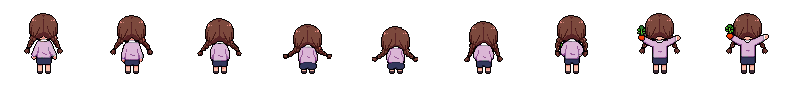
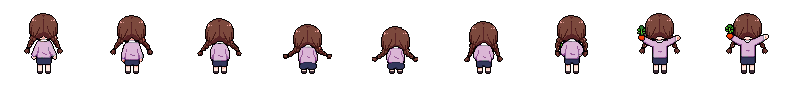
ภาพตัวเอกผิวสว่างไม่ถูกเขียนทับตอนดึงภาพ
- fetch-assets เอาแผ่นท่าเดินและท่ายืนผิวสว่างใน assets-src/skin_fair_1104 ทับหลังสร้าง
  ขนาดต้องตรงกับแผ่นที่สร้าง จุดเท้ายังวัดจากแผ่นที่สร้าง
- ต้นฉบับท่าทำสวนและหน้าในแถบบนเป็นผิวสว่างแล้ว จากฝั่งวางแผน
- ไฟล์ที่พิกเซลเหมือนเดิมไม่เขียนทับ git จึงไม่เห็นการเปลี่ยนหลังดึงภาพ
- validate ล้มถ้าภาพตัวสาวกลับเป็นสีผิวเดิม #f9bfab

diff --git a/tools/fetch-assets.ts b/tools/fetch-assets.ts
@@ -27,8 +27,16 @@ async function downloadPng(url: string): Promise<PNG> {
   return PNG.sync.read(await downloadBytes(url));
 }
 
+/** ไฟล์เดิมที่พิกเซลเหมือนกันทุกจุดไม่เขียนทับ ไฟล์ที่ฝั่งวางแผนบีบอัดมาเล็กกว่าจะได้ไม่เปลี่ยนใน git */
+function samePixels(target: string, png: PNG): boolean {
+  if (!existsSync(target)) return false;
+  const old = PNG.sync.read(readFileSync(target));
+  return old.width === png.width && old.height === png.height && old.data.equals(png.data);
+}
+
 function savePng(file: string, png: PNG): void {
   const target = join(projectRoot, 'public/assets', file);
+  if (samePixels(target, png)) return;
   mkdirSync(dirname(target), { recursive: true });
   writeFileSync(target, PNG.sync.write(png));
 }
@@ -45,6 +53,20 @@ function lowestRow(png: PNG, left: number, top: number, width: number, height: n
 
 function median(values: number[]): number {
   return [...values].sort((a, b) => a - b)[Math.floor(values.length / 2)] ?? 0;
+}
+
+/** ตัวเอกผิวสว่างที่ผู้ใช้อนุมัติ 4 พ.ย. 2026 ฝั่งวางแผนสลับสีบนแผ่นที่สร้างเสร็จแล้ว ภาพใน PixelLab ยังเป็นผิวเดิม */
+const FAIR_SKIN_DIR = 'assets-src/skin_fair_1104';
+
+/** ใช้แผ่นผิวสว่างแทนแผ่นที่เพิ่งสร้าง จุดเท้ายังวัดจากแผ่นที่สร้าง เพราะสลับแค่สี ไม่ได้ย้ายพิกเซล */
+function fairSkinSheet(id: string, processed: PNG): PNG | null {
+  const path = join(projectRoot, FAIR_SKIN_DIR, `${id}.png`);
+  if (!existsSync(path)) return null;
+  const fair = PNG.sync.read(readFileSync(path));
+  if (fair.width !== processed.width || fair.height !== processed.height) {
+    throw new Error(`${FAIR_SKIN_DIR}/${id}.png is ${fair.width}x${fair.height}, expected ${processed.width}x${processed.height}`);
+  }
+  return fair;
 }
 
 async function fetchCharacter(id: string, entry: CharacterEntry, meta: SpriteMeta): Promise<void> {
@@ -85,12 +107,10 @@ async function fetchCharacter(id: string, entry: CharacterEntry, meta: SpriteMet
   for (const [direction, fix] of Object.entries(entry.steady_rows ?? {})) {
     steadyWalkRow(sheet, directions.findIndex(([name]) => name === direction), entry.frameWidth, entry.frameHeight, entry.frameCount, fix);
   }
-  savePng(
-    entry.file,
-    entry.squash_stretch
-      ? buildHopSheet(sheet, entry.frameWidth, entry.frameHeight, directions.length, entry.squash_stretch)
-      : sheet,
-  );
+  const processed = entry.squash_stretch
+    ? buildHopSheet(sheet, entry.frameWidth, entry.frameHeight, directions.length, entry.squash_stretch)
+    : sheet;
+  savePng(entry.file, fairSkinSheet(id, processed) ?? processed);
   meta[id] = { footY };
   console.log(`${id}: saved ${directions.length} directions, ${entry.frameCount} frames each`);
 }

diff --git a/tools/checks.ts b/tools/checks.ts
@@ -1,6 +1,7 @@
 import { existsSync, readdirSync, readFileSync, statSync } from 'node:fs';
 import { dirname, join, relative, resolve } from 'node:path';
 import { fileURLToPath } from 'node:url';
+import { PNG } from 'pngjs';
 import type { z } from 'zod';
 import {
   balanceSchema,
@@ -32,6 +33,24 @@ function readJson(path: string): unknown {
 function checkSchema(path: string, schema: z.ZodType, problems: string[]): void {
   const result = schema.safeParse(readJson(path));
   if (!result.success) problems.push(`${path}: ${result.error.message}`);
+}
+
+/** ภาพตัวเอกสาวทุกชิ้น ท่าเดิน ท่ายืน ท่าทำงาน และหน้าในแถบบน */
+const GIRL_ART = /^(player_girl_(walk|stand)|anim_[a-z]+_(south|east|north)|portrait_girl_[a-z]+)$/;
+const OLD_SKIN = 0xf9bfab;
+/** ภาพผิวเดิมมีสีนี้ราว 5–20% ของพิกเซลทึบ ภาพผิวสว่างไม่มีเลย */
+const OLD_SKIN_MAX_SHARE = 0.01;
+
+function oldSkinShare(path: string): number {
+  const { data } = PNG.sync.read(readFileSync(path));
+  let opaque = 0;
+  let old = 0;
+  for (let i = 0; i < data.length; i += 4) {
+    if ((data[i + 3] ?? 0) < 128) continue;
+    opaque += 1;
+    if ((((data[i] ?? 0) << 16) | ((data[i + 1] ?? 0) << 8) | (data[i + 2] ?? 0)) === OLD_SKIN) old += 1;
+  }
+  return opaque > 0 ? old / opaque : 0;
 }
 
 function listCodeFiles(directory: string): string[] {
@@ -130,6 +149,15 @@ export function checkProject(): string[] {
       (entry.kind === 'cosmetic' ? cosmetics[entry.item] !== undefined : entry.item.startsWith('ing_') ? translations[`ingredient.${entry.item.slice(4)}.name`] : translations[`item.${entry.item}.name`]);
     if (!named) problems.push(`src/data/chests.json: ${entry.item} has no name`);
     if (entry.min > entry.max) problems.push(`src/data/chests.json: ${entry.item} min is above max`);
+  }
+
+  // ผู้ใช้เลือกตัวเอกผิวสว่าง 4 พ.ย. 2026 ถ้าภาพไหนกลับเป็นผิวเดิม แปลว่าการดึงภาพเขียนทับ
+  for (const [id, entry] of Object.entries(registry)) {
+    if (!GIRL_ART.test(id) || entry.type === 'not_used' || entry.type === 'placeholder') continue;
+    const path = join(projectRoot, 'public/assets', entry.file);
+    if (existsSync(path) && oldSkinShare(path) > OLD_SKIN_MAX_SHARE) {
+      problems.push(`public/assets/${entry.file}: ${id} has the old skin colour #${OLD_SKIN.toString(16)}, the fair skin was overwritten`);
+    }
   }
 
   for (const file of listCodeFiles(join(projectRoot, 'src'))) {

diff --git a/CLAUDE.md b/CLAUDE.md
@@ -440,7 +440,7 @@ help-tower-game/
 
 - **จีโอ:** แมวชิบินั่ง ขนชมพูพาสเทลสลับขาว ตาเขียวมรกตประกาย กระดิ่งทอง เป้หนังน้ำตาล เคลื่อนที่ด้วยการกระโดดดึ๋ง ๆ สูงราว 77% ของตัวเอก (ห้ามเปลี่ยนเป็นสีส้มหรือเทา)
 - **ไอ้ส้ม:** แมวส้มจรหน้าปากซอย คนละตัวกับจีโอ (ยังไม่ได้สร้าง)
-- **ตัวเอก:** เลือกสาวหรือหนุ่ม แล้วเปลี่ยนสีผม ผิว ตา เสื้อ ด้วยการสลับสีในโค้ด (palette swap) ไม่ใช้ภาพแยกชั้น ชุดชาวสวนได้วันที่ 7 จากจีโอ เป็นชุดของยาย (เชฟคนก่อน)
+- **ตัวเอก:** เลือกสาวหรือหนุ่ม แล้วเปลี่ยนสีผม ผิว ตา เสื้อ ด้วยการสลับสีในโค้ด (palette swap) ไม่ใช้ภาพแยกชั้น ชุดชาวสวนได้วันที่ 7 จากจีโอ เป็นชุดของยาย (เชฟคนก่อน) · **ผิวสว่าง (ผู้ใช้อนุมัติ 4 พ.ย. 2026):** ภาพตัวสาวทุกชิ้นใช้ผิวสว่าง ท่าเดินกับท่ายืนดึงจาก PixelLab ซึ่งยังเป็นผิวเดิม `fetch-assets` จึงเอาแผ่นใน `assets-src/skin_fair_1104/` ทับหลังสร้าง (จุดเท้ายังวัดจากแผ่นที่สร้าง) · `npm run validate` ล้มถ้าภาพตัวสาวกลับเป็นสีผิวเดิม `#f9bfab` · ภาพตัวสาวใหม่ต้องใช้ผิวสว่าง
 
 ## เสียง
 
